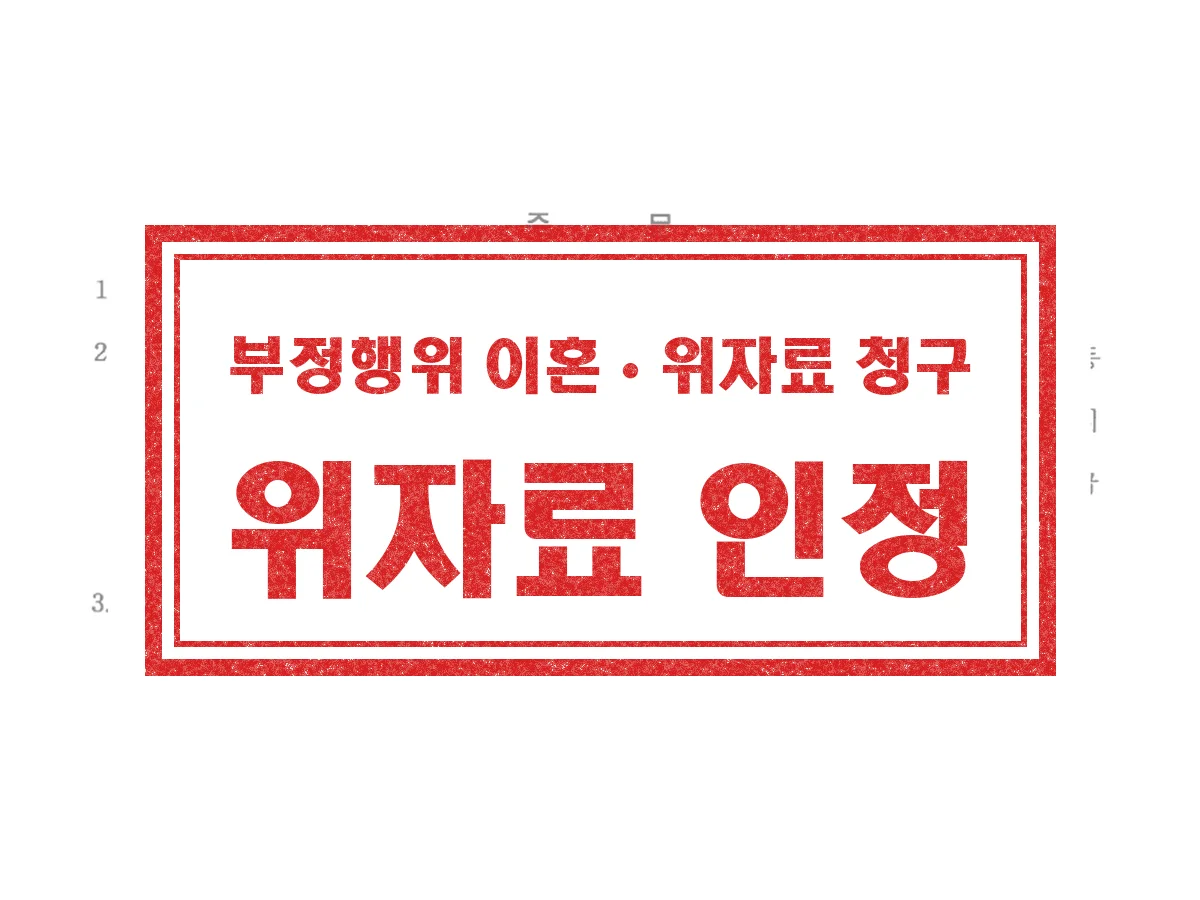
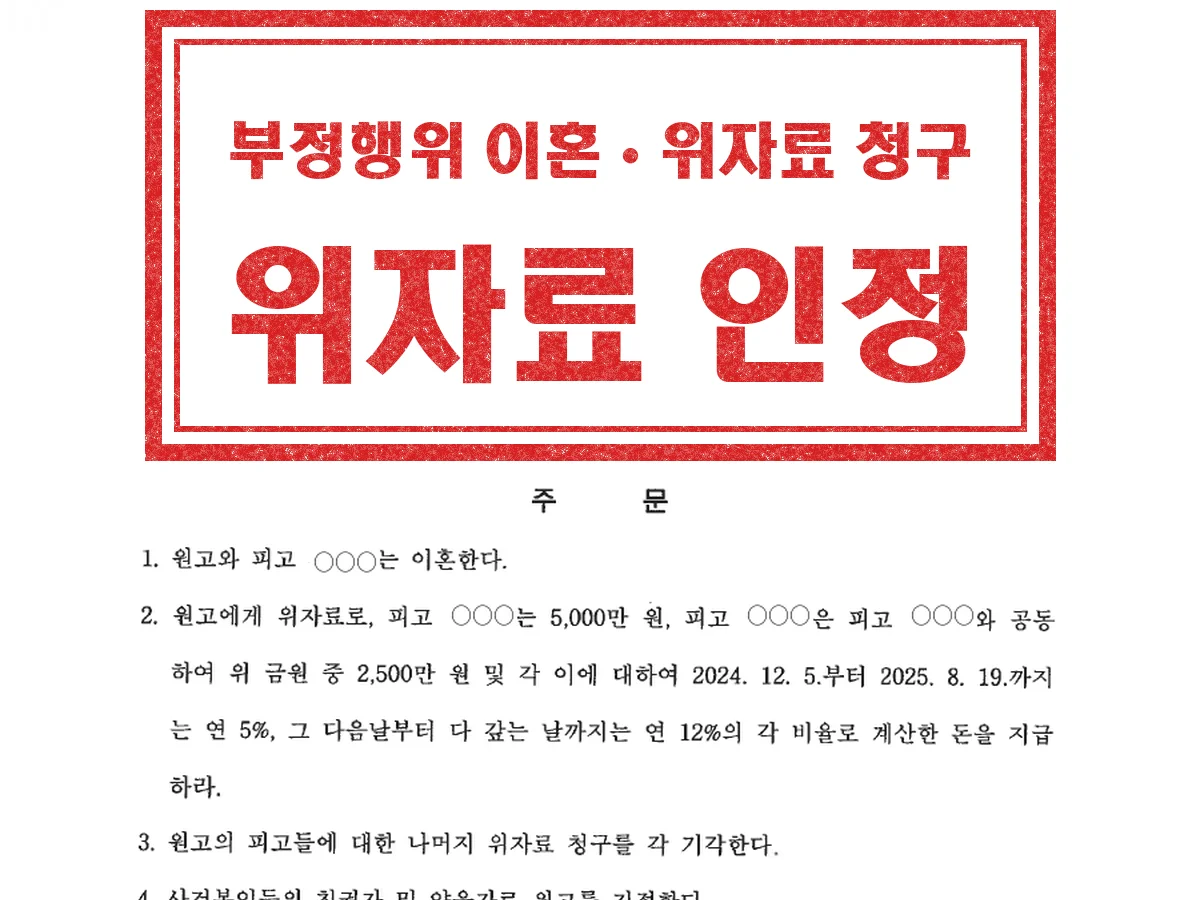
성공사례 case-20: 도장을 문서 상단으로 옮기고 판결 주문 1~8항이 보이게(당사자 이름 ○○○, 등록기준지·발급번호 삭제)
Claude-Session: https://claude.ai/code/session_019BpyvRfw1kgAhxY1Ym6REe

diff --git a/results.html b/results.html
@@ -444,8 +444,8 @@
           </div>
         </article>
         <article class="case" id="case-20" data-cat="divorce">
-          <a class="case__fig" href="images/case-20.webp?v=2" target="_blank" rel="noopener">
-            <img src="images/case-20-thumb.webp?v=2" alt="판결문 주문(개인정보 가림) — 배우자 부정행위 이혼·위자료 청구, 위자료 인정" width="1200" height="900" loading="lazy">
+          <a class="case__fig" href="images/case-20.webp?v=3" target="_blank" rel="noopener">
+            <img src="images/case-20-thumb.webp?v=3" alt="판결문 주문(당사자 이름 가림) — 배우자 부정행위 이혼·위자료 청구, 위자료 인정" width="1200" height="900" loading="lazy">
           </a>
           <div class="case__body">
             <div class="case__top"><span class="case__tag">가사</span></div>
